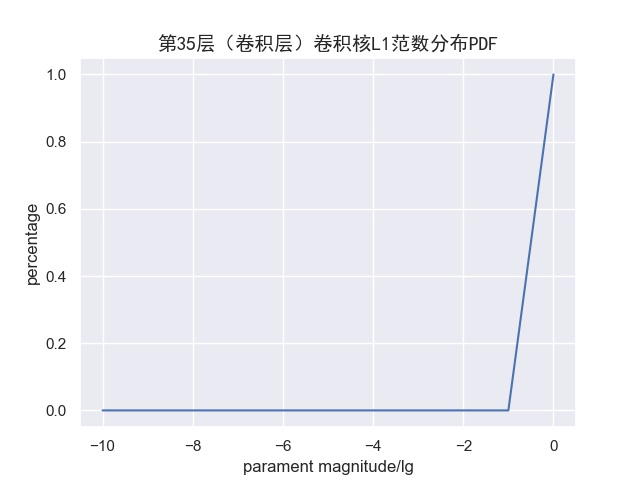
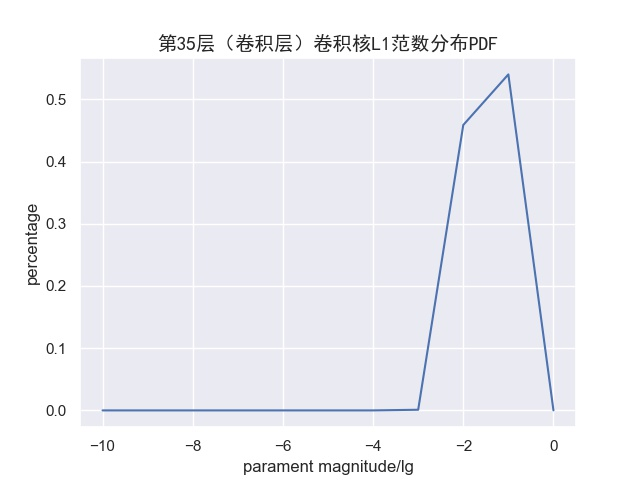
Fix bug on L1norm calc, Version 2.1

diff --git a/vggAnalysis.py b/vggAnalysis.py
@@ -50,12 +50,14 @@ for f in vgg.features:
         print(layerCnt, '\t', f)
         filterCnt, channelCnt, kernelWidth, kernelHeight = f.weight.size()[0], f.weight.size()[1], f.weight.size()[2], f.weight.size()[3]
         filterSize = channelCnt * kernelWidth * kernelHeight
-        totalSize = filterCnt * filterSize
+        totalCnt = filterCnt * filterSize
+        kernelCnt = filterCnt * channelCnt
+        kernelSize = kernelWidth * kernelHeight
         # 将一层中的所有卷积核展平，成为二维数组
         allFilter1d = f.weight.data.view(filterCnt, filterSize).numpy()
         # 统计同一层之间卷积核相关系数
         allFilterSimilarity = np.corrcoef(allFilter1d)
-        # 统计卷积核的权重以及L1范数的分布
+        # 统计卷积核的权重以及L1范数的数量级分布
         for i in range(0, filterCnt):
             L1Norm = 0
             for j in range(0, filterSize):
@@ -63,10 +65,12 @@ for f in vgg.features:
                 L1Norm += abs(curWeight)
                 powerResTemp = powerRes(curWeight)
                 paraCnt[powerResTemp] += 1
-            powerResTemp = powerRes(L1Norm)
-            paraCntL1[powerResTemp] += 1
-        paraCnt /= totalSize
-        paraCntL1 /= filterCnt
+                if (j + 1) % kernelSize == 0:
+                    powerResTemp = powerRes(L1Norm)
+                    paraCntL1[powerResTemp] += 1
+                    L1Norm = 0
+        paraCnt /= totalCnt
+        paraCntL1 /= kernelCnt
         # 绘制相关系数热图
         ax = sns.heatmap(allFilterSimilarity)
         plt.title("第" + layerCntStr + "层（卷积层）卷积核相关系数热图", FontProperties=font)

diff --git a/vggClassify.py b/vggClassify.py
@@ -112,8 +112,8 @@ def make_layers(cfg, batch_norm=False):
 
 def data_tf(x):
     x = np.array(x, dtype='float32') / 255
-    x = (x - 0.5) / 0.5  # 标准化，这个技巧之后会讲到
-    x = x.transpose((2, 0, 1))  # 将 channel 放到第一维，只是 pytorch 要求的输入方式
+    x = (x - 0.5) / 0.5  # 标准化
+    x = x.transpose((2, 0, 1))  # 将 channel 放到第一维
     x = torch.from_numpy(x)
     return x
 
@@ -124,7 +124,12 @@ test_set = CIFAR10('../data', train=False, transform=data_tf, download=False)
 test_data = torch.utils.data.DataLoader(test_set, batch_size=128, shuffle=False)
 
 net = VGG(make_layers(vggStructure, batch_norm=True))
-optimizer = torch.optim.SGD(net.parameters(), lr=1e-2, momentum=0.01, dampening=0, weight_decay=0.01)
+optimizer = torch.optim.SGD(net.parameters(), lr=1e-1, momentum=0.1, dampening=0, weight_decay=0.001)
 criterion = nn.CrossEntropyLoss()
+train(net, train_data, test_data, 10, optimizer, criterion)
 
-train(net, train_data, test_data, 20, optimizer, criterion)
+optimizer = torch.optim.SGD(net.parameters(), lr=1e-2, momentum=0.1, dampening=0, weight_decay=0.001)
+train(net, train_data, test_data, 10, optimizer, criterion)
+
+optimizer = torch.optim.SGD(net.parameters(), lr=1e-3, momentum=0.1, dampening=0, weight_decay=0.001)
+train(net, train_data, test_data, 10, optimizer, criterion)

diff --git a/ReadMe.md b/ReadMe.md
@@ -15,3 +15,17 @@
 - 量化不够细致，某些折线图形状略为极端；
 - 热图横纵坐标过多（最大512×512），视觉效果并没有那么好；
 - 以及对python和matplotlib的不熟练。
+
+## VGG16_BN网络的搭建
+
+VGG网络结构模型参考：https://www.jianshu.com/p/82ab7e5e8961
+
+训练和反向传播模型参考：https://github.com/L1aoXingyu/code-of-learn-deep-learning-with-pytorch
+
+基于CIFAR_10数据集进行训练和测试。
+
+#### 存在的一些问题
+
+- 准确率比较低，仅达到87%左右
+- 训练函数需要将优化器作为参数传递进去，不方便中途修改（后发现可分解成多次训练）
+- 对于SGD中参数，如动量理解不够深刻
